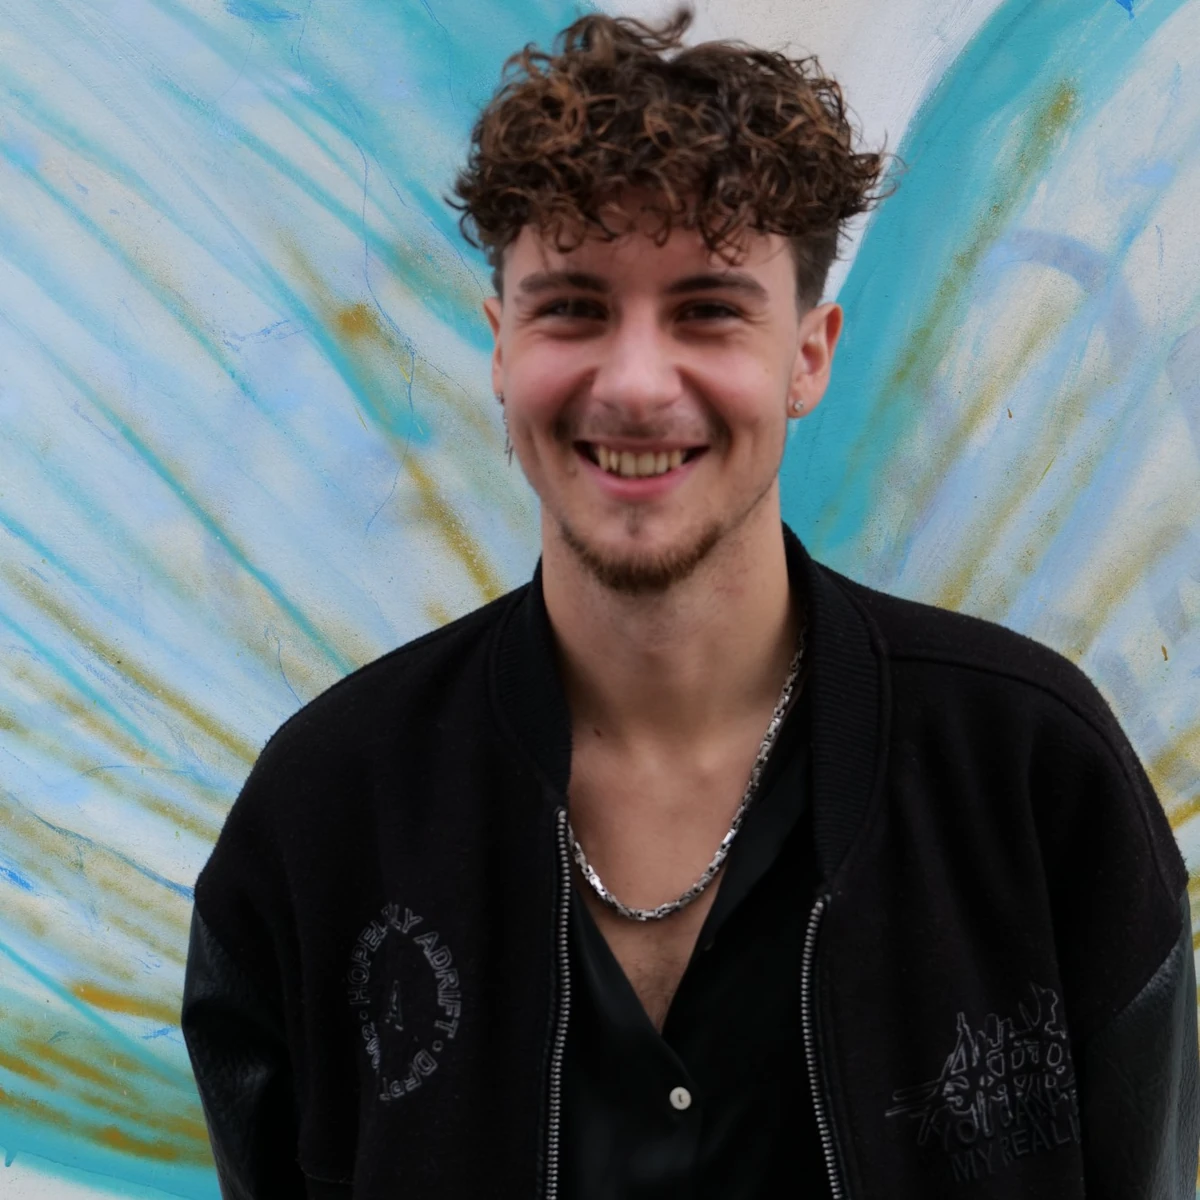
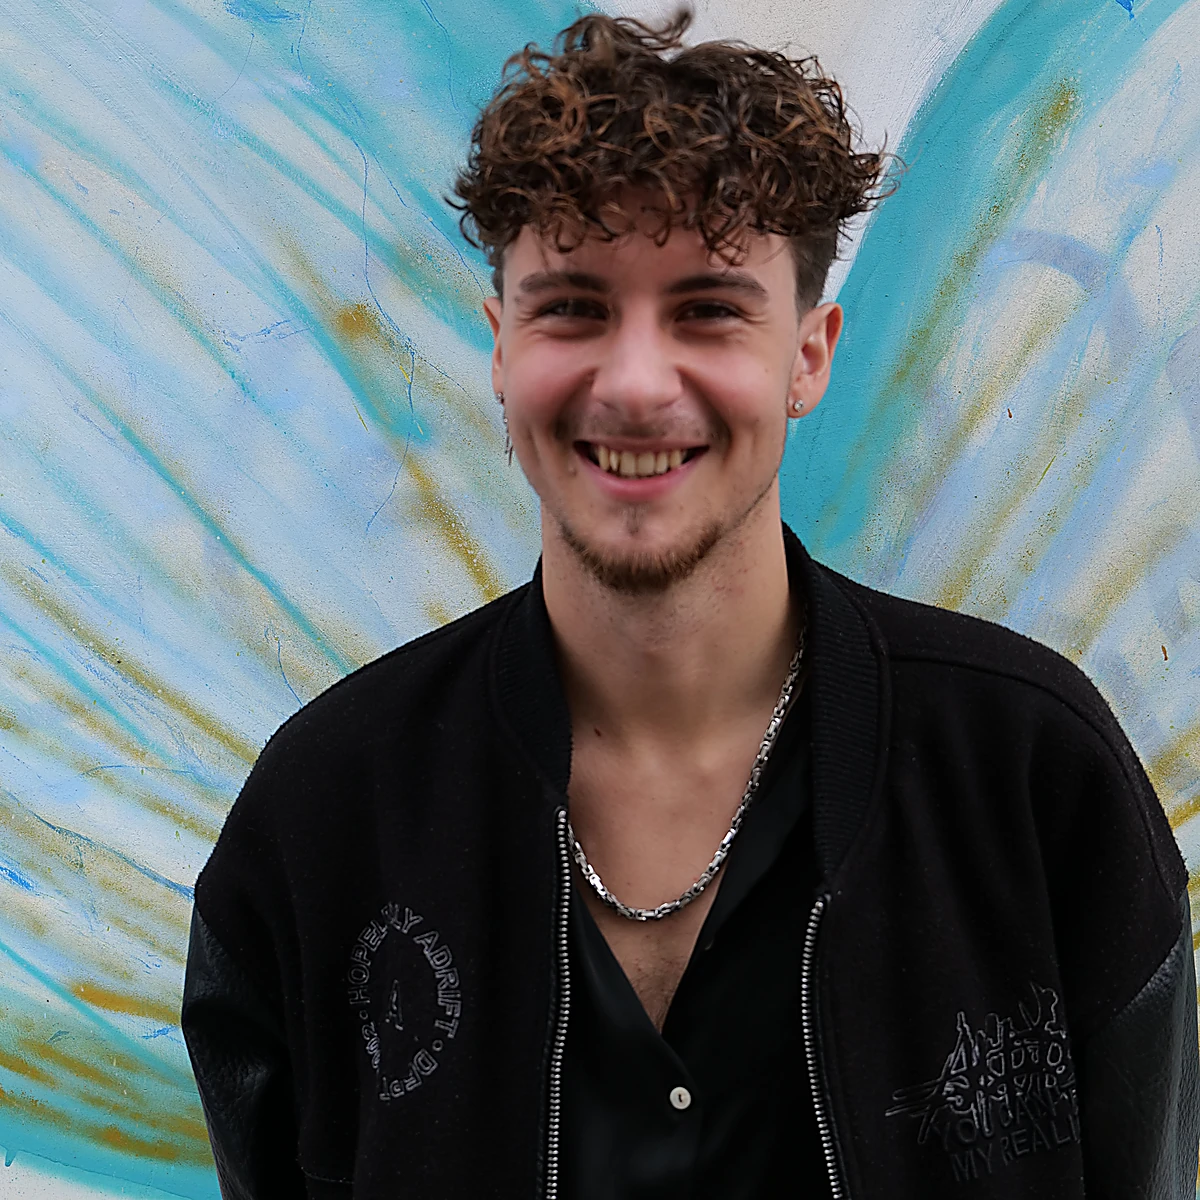
Equipo: foto de Örjan desde el original y enfocada, presentación de Laetitia sin la primera frase y «Leer más» que continúa el texto sin repetirlo
Claude-Session: https://claude.ai/code/session_016Cj4T4kx5rARvBFRzeKFjd

diff --git a/src/content/nosotros.ts b/src/content/nosotros.ts
@@ -137,7 +137,7 @@ export const pageNosotrosEs = {
   teamMembers: [
     { name: 'Fran Sequeiro', role: 'Coordinación', image: '/img/equipo/fran-sequeiro.webp', linkUrl: 'https://www.linkedin.com/in/fransequeiro/' },
     { name: 'Suzan Barendregt', role: 'Asistente de proyectos', country: 'NL', image: '/img/equipo/suzan-barendregt.webp', bio: "Hi, my name is Suzan. I am 22 years old and from The Netherlands. […]", bioLong: "Hi, my name is Suzan. I am 22 years old and from The Netherlands. I love trying new foods and explore nature so I'm so excited to be here in Ferrol and am looking forward to discovering all the beauty Spain has to offer!" },
-    { name: 'Laetitia Wangler', role: 'Community manager', country: 'FR', image: '/img/equipo/laetitia-wangler.webp', bio: "Bread and cheese ? 🥖 Now guess where I’m coming from ! Hi, my name is Laetitia and i’m your new favorite French team member 😝 […]", bioLong: "Bread and cheese ? 🥖 Now guess where I’m coming from ! Hi, my name is Laetitia and i’m your new favorite French team member 😝 Talking, sharing, eating, i love to discover and connect with each other. Be ready to have fun, be creative and laugh a lot, isnt it what Xeracion was created for ? Can’t wait to see you soon ! 🫶🏻" },
+    { name: 'Laetitia Wangler', role: 'Community manager', country: 'FR', image: '/img/equipo/laetitia-wangler.webp', bio: "Hi, my name is Laetitia and i’m your new favorite French team member 😝 […]", bioLong: "Hi, my name is Laetitia and i’m your new favorite French team member 😝 Talking, sharing, eating, i love to discover and connect with each other. Be ready to have fun, be creative and laugh a lot, isnt it what Xeracion was created for ? Can’t wait to see you soon ! 🫶🏻" },
     { name: 'Isi Ritter', role: 'Directora creativa', country: 'DE', image: '/img/equipo/isi-ritter.webp', bio: "Hey, I am Isi:) I am 21 years old and from Leipzig, Germany. I love gardening, animals and being creative! […]", bioLong: "Hey, I am Isi:) I am 21 years old and from Leipzig, Germany. I love gardening, animals and being creative! Additionally, I am always open for a good conversation, so if you need somebody to talk to, hit me up:))" },
     { name: 'Örjan Petersson', role: 'Coordinador de eventos', country: 'SE', image: '/img/equipo/orjan-petersson.webp', bio: "Hi my name is Örjan, im the new hot Swede in the team! I am 22y old and come from Kalmar. […]", bioLong: "Hi my name is Örjan, im the new hot Swede in the team! I am 22y old and come from Kalmar. I am a generalist so I have alot of interests but some of them are, martial arts, psychology and making and editing videos for my tiktok!" },
     { name: 'Febe Prins', role: 'Coordinadora de eventos', country: 'NL', image: '/img/equipo/febe-prins.webp', bio: "My name is Febe, 19 years old. and interested in anything creative, movies, painting, crafting, and acting! I am here to learn, curious about everything. And people´s story" },

diff --git a/src/components/TeamGroups/index.tsx b/src/components/TeamGroups/index.tsx
@@ -24,20 +24,32 @@ function Photo({ member, sizes, locale }: { member: TeamMember; sizes: string; l
   )
 }
 
+// La presentación corta termina en «[…]» y «Leer más» despliega solo lo que
+// falta (bioLong es el texto completo: no se repite lo ya leído).
 function Bio({ member, locale }: { member: TeamMember; locale: TeamLocale }) {
-  const long = typeof member.bioLong === 'string' ? [member.bioLong] : member.bioLong
+  const long = typeof member.bioLong === 'string' ? [member.bioLong] : (member.bioLong ?? [])
+  const short = member.bio?.replace(/\s*\[…\]\s*$/, '') ?? ''
+  const rest =
+    long.length > 0 && long[0].startsWith(short)
+      ? [long[0].slice(short.length).trim(), ...long.slice(1)].filter(Boolean)
+      : long
+
+  if (!member.bio) return null
+  if (rest.length === 0) return <p className={styles.bio}>{member.bio}</p>
+
   return (
-    <>
-      {member.bio && <p className={styles.bio}>{member.bio}</p>}
-      {long && long.length > 0 && (
-        <details className={styles.more}>
-          <summary>{LABELS[locale].more}</summary>
-          {long.map((paragraph, i) => (
-            <p key={i}>{paragraph}</p>
-          ))}
-        </details>
-      )}
-    </>
+    <div className={styles.bioWrap}>
+      <p className={styles.bio}>
+        {short}
+        <span className={styles.ellipsis}> […]</span>
+      </p>
+      <details className={styles.more}>
+        <summary>{LABELS[locale].more}</summary>
+        {rest.map((paragraph, i) => (
+          <p key={i}>{paragraph}</p>
+        ))}
+      </details>
+    </div>
   )
 }
 

diff --git a/src/components/TeamGroups/TeamGroups.module.css b/src/components/TeamGroups/TeamGroups.module.css
@@ -115,6 +115,15 @@
   color: var(--color-text-secondary);
 }
 
+/* Al abrir «Leer más» desaparece el «[…]» y el resto del texto sigue debajo. */
+.bioWrap:has(.more[open]) .ellipsis {
+  display: none;
+}
+
+.more[open] summary {
+  display: none;
+}
+
 .more {
   font-size: var(--text-sm);
   line-height: 1.55;
@@ -143,7 +152,7 @@
 }
 
 .more p {
-  margin-top: var(--space-xs);
+  margin-top: var(--space-2xs);
 }
 
 /* Rejilla compacta del último grupo. */
